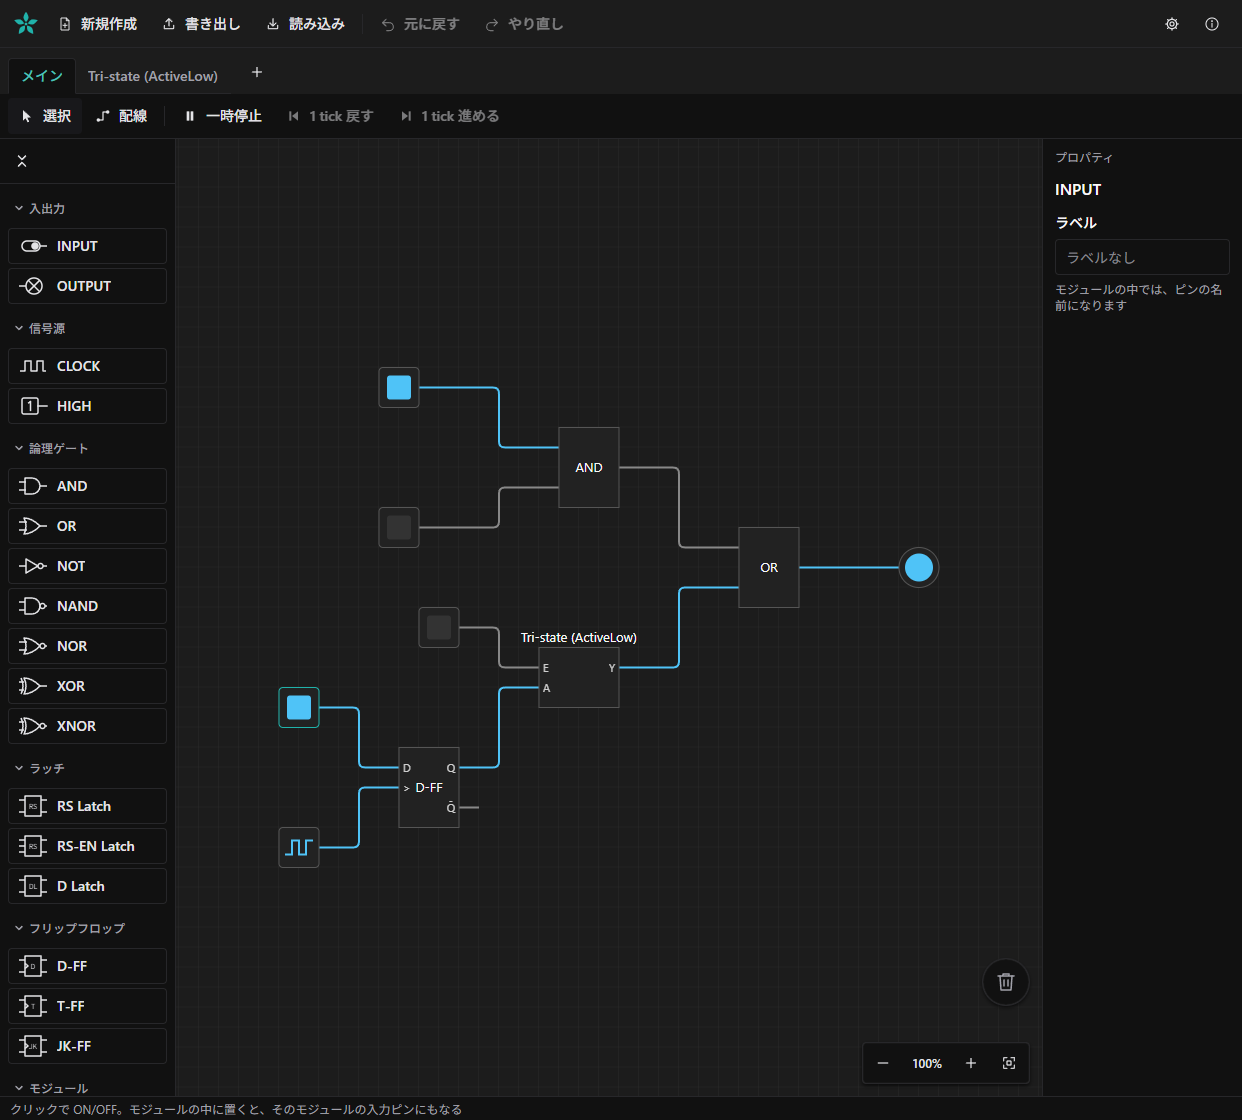
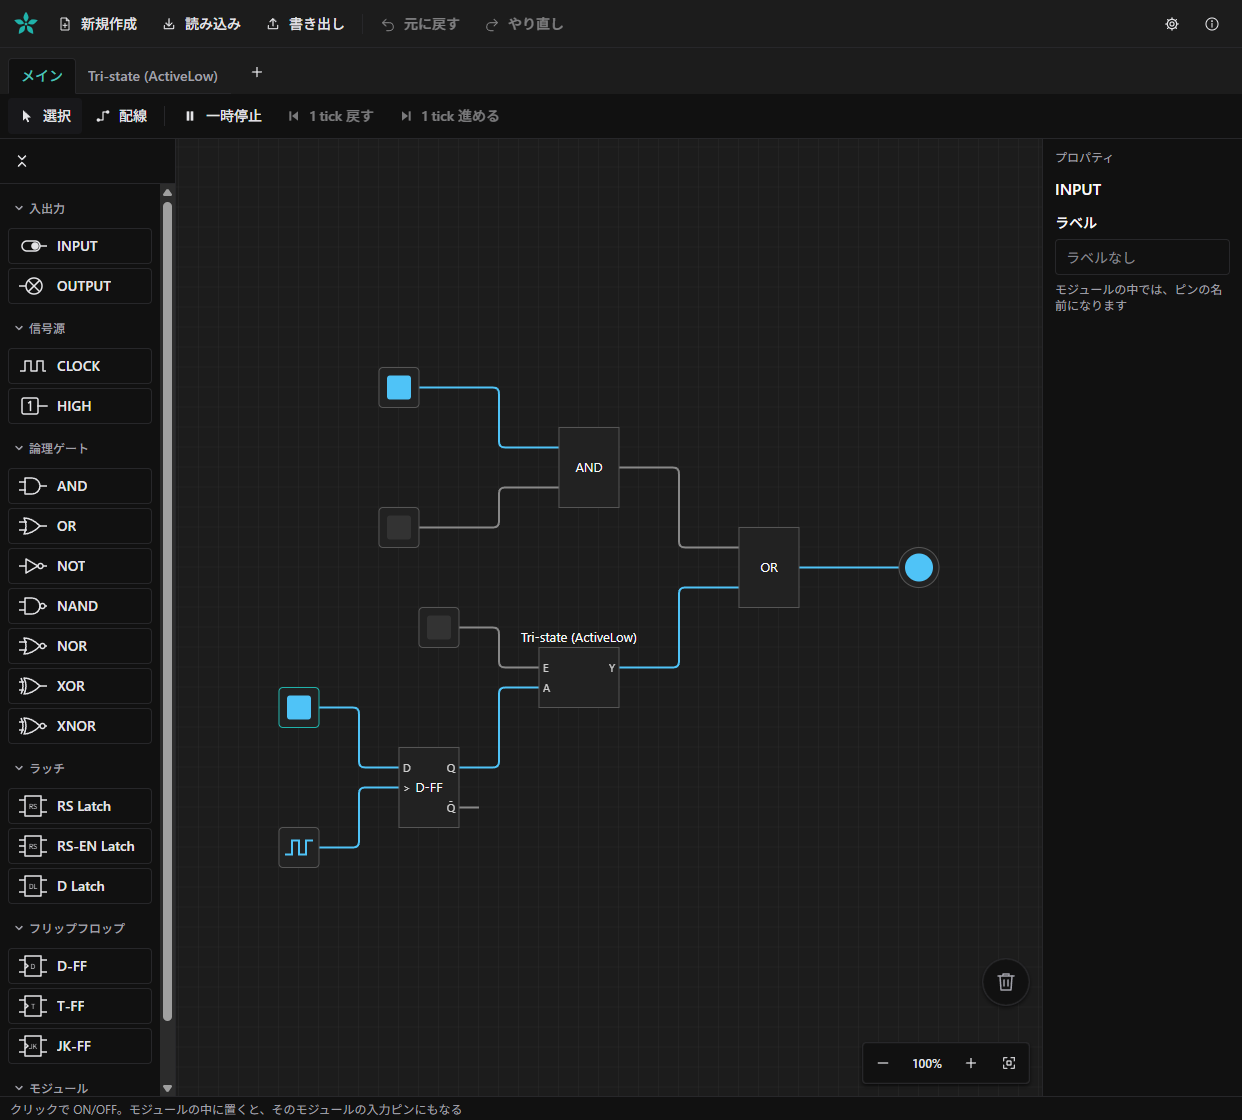
ボタン配置の入れ替えのみ

Changed region(s): [[0.1224, 0.1562, 0.153, 1.0], [0.2142, 0.0, 0.2754, 0.0312], [0.153, 0.0, 0.1836, 0.0312]]

diff --git a/src/app/Header.tsx b/src/app/Header.tsx
@@ -24,7 +24,7 @@ interface HeaderProps {
 }
 
 /**
- * 最上部のヘッダー。ロゴと、プロジェクト全体に効く操作 (新規作成、書き出し、読み込み、元に戻す、やり直し)。
+ * 最上部のヘッダー。ロゴと、プロジェクト全体に効く操作 (新規作成、読み込み、書き出し、元に戻す、やり直し)。
  * 元に戻すの履歴はすべての回路で1本なので、全体の操作としてここに置く。開いている回路に効く操作はシートのツールバーにある
  */
 export const Header = memo(function Header({
@@ -60,16 +60,16 @@ export const Header = memo(function Header({
           onClick={onNew}
         />
         <ToolButton
-          icon={exportIcon}
-          label="書き出し"
-          title="プロジェクト全体を JSON にして共有する"
-          onClick={onExport}
-        />
-        <ToolButton
           icon={importIcon}
           label="読み込み"
           title="共有された JSON からプロジェクトを読み込む"
           onClick={onImport}
+        />
+        <ToolButton
+          icon={exportIcon}
+          label="書き出し"
+          title="プロジェクト全体を JSON にして共有する"
+          onClick={onExport}
         />
         <ToolDivider />
         <ToolButton

diff --git a/docs/agent/ui.md b/docs/agent/ui.md
@@ -8,7 +8,7 @@
 
 | 場所                                                | 置くもの                                                                                                             |
 | --------------------------------------------------- | -------------------------------------------------------------------------------------------------------------------- |
-| ヘッダー（`app/Header.tsx`）                        | プロジェクト全体に効く操作: 新規作成、書き出し、読み込み、元に戻す、やり直し。右端に環境設定と「このアプリについて」 |
+| ヘッダー（`app/Header.tsx`）                        | プロジェクト全体に効く操作: 新規作成、読み込み、書き出し、元に戻す、やり直し。右端に環境設定と「このアプリについて」 |
 | タブバー（`modules/TabBar.tsx`）                    | 回路の切り替えと、モジュールの追加（タブの末尾の「+」）                                                              |
 | シートのツールバー（`simulation/SheetToolbar.tsx`） | 開いている回路に効く操作: 選択モード・配線モードの切り替え、一時停止・再開、1 tick 戻す・進める、モジュールの削除 |
 | パレット（`palette/Palette.tsx`）                   | シートの左。置ける部品の一覧                                                                                         |
